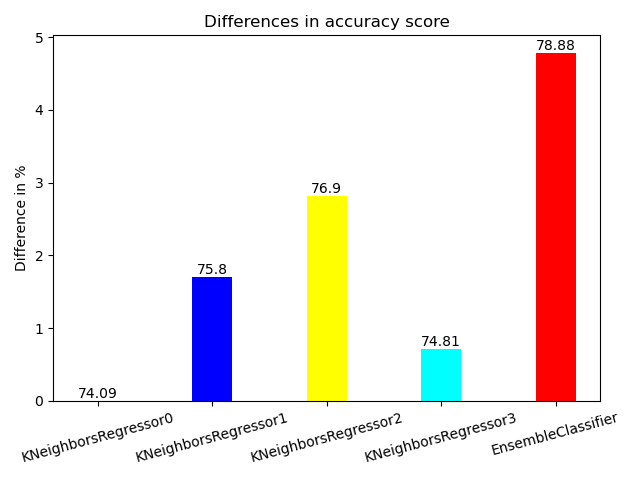
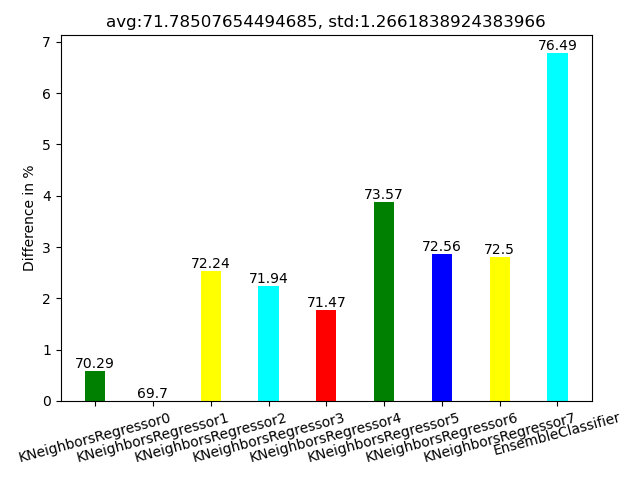
Lab2 completed

diff --git a/main.py b/main.py
@@ -30,10 +30,14 @@ average = [Ensemble.ARITHMETIC]
 #                [Model.K_NEIGHBORS, Model.K_NEIGHBORS, Model.K_NEIGHBORS, Model.K_NEIGHBORS],
 #                ]
 
-models_list = [[Model.DECISION_TREE, Model.DECISION_TREE, Model.DECISION_TREE, Model.DECISION_TREE],
-                [Model.BAYESIAN_RIDGE, Model.BAYESIAN_RIDGE, Model.BAYESIAN_RIDGE, Model.BAYESIAN_RIDGE],
-                [Model.SVR, Model.SVR, Model.SVR, Model.SVR],
-                [Model.K_NEIGHBORS, Model.K_NEIGHBORS, Model.K_NEIGHBORS, Model.K_NEIGHBORS],
+models_list = [[Model.DECISION_TREE, Model.DECISION_TREE, Model.DECISION_TREE, Model.DECISION_TREE, Model.DECISION_TREE, Model.DECISION_TREE,
+                Model.DECISION_TREE, Model.DECISION_TREE],
+                [Model.BAYESIAN_RIDGE, Model.BAYESIAN_RIDGE, Model.BAYESIAN_RIDGE, Model.BAYESIAN_RIDGE, Model.BAYESIAN_RIDGE, Model.BAYESIAN_RIDGE,
+                 Model.BAYESIAN_RIDGE,Model.BAYESIAN_RIDGE],
+                [Model.SVR, Model.SVR, Model.SVR, Model.SVR, Model.SVR, Model.SVR,
+                 Model.SVR,Model.SVR],
+                [Model.K_NEIGHBORS, Model.K_NEIGHBORS, Model.K_NEIGHBORS, Model.K_NEIGHBORS, Model.K_NEIGHBORS, Model.K_NEIGHBORS,
+                 Model.K_NEIGHBORS,Model.K_NEIGHBORS],
                 ]
 
 labels_group = [
@@ -51,7 +55,7 @@ split_dataset = [
     #SplitDataset.AGENT,
     ]
 
-number_of_agents = 4
+number_of_agents = 8
 
 
 def divide_into_train_test(df):
@@ -93,9 +97,9 @@ if __name__ == '__main__':
     master_agent.define_addr_conn(agents)
     for avg in average:
         for models, split in zip(models_list, split_dataset):
-            number_of_agents = len(models)
+            #number_of_agents = len(models)
             if split == SplitDataset.BAGGING:
-                divisions = [0, 0.25, 0.50, 0.75, 1.0]
+                divisions = [0, 0.125, 0.25, 0.375, 0.5, 0.625, 0.75, 0.875, 1.0]
                 n_samples = len(x_train)
                 x_train_list = [x_train[floor(divisions[i] * n_samples):floor(divisions[i + 1] * n_samples)] for i in
                                 range(number_of_agents)]  # divide x_train for 4 equal parts

diff --git a/DataVisualizer.py b/DataVisualizer.py
@@ -3,6 +3,7 @@ import matplotlib.pyplot as plt
 import seaborn as sns
 from math import floor
 import csv
+import statistics
 
 def print_corelation_heatmap(df):
     df.corr()['price'].sort_values(ascending=False)
@@ -23,19 +24,23 @@ def print_metrics(metrics, id, split):
     width = 0.35
     vals = np.array(list(metrics.values()))*100
     minimum = min(vals)
-
-    with open(f'results\exp1_one_type_algorithm\lab1_{id}.csv', 'w', newline='\n') as f:  # Just use 'w' mode in 3.x
+    with open(f'results\exp2_increasing\lab1_{id}.csv', 'w', newline='\n') as f:  # Just use 'w' mode in 3.x
         w = csv.writer(f, delimiter=',')
         for item in metrics:
             w.writerow([item, metrics[item]])
-
+    s = 0;
+    for i in range(len(metrics.values()) - 1):
+        s += vals[i]
+    standard_dev = statistics.stdev(vals[:len(vals)-1])
+    print(f'{list(metrics.keys())[0]} - Avg r2 score: {s/(len(vals)-1)}')
+    print(f'With std:{standard_dev}')
     plt.figure()
     plt.bar(ind, vals-minimum, width, color=['green', 'blue', 'yellow', 'cyan', 'red'])
     for i, v in zip(ind, vals-minimum):
         plt.text(i, v, round(vals[i], 2), horizontalalignment='center', verticalalignment='bottom')
 
     plt.ylabel('Difference in %')
-    plt.title('Differences in accuracy score')
+    plt.title(f'avg:{s/(len(vals)-1)}, std:{standard_dev}')
     plt.xticks(ind, (metrics.keys()), rotation=15)
     plt.tight_layout()
     plt.savefig(f'figures/metric_{split.name}_{id}.png')

diff --git a/MasterClassifier.py b/MasterClassifier.py
@@ -31,8 +31,8 @@ class MasterClassifier(Agent):
         final_prediction = list()
         if average == Ensemble.ARITHMETIC:
             preds = list(self.y_predicted.values())
-            for p1, p2, p3, p4 in zip(preds[0], preds[1], preds[2], preds[3]):
-                final_prediction.append(round((p1 + p2 + p3 + p4) / 4))
+            for p1, p2, p3, p4, p5, p6, p7, p8 in zip(preds[0], preds[1], preds[2], preds[3], preds[4], preds[5], preds[6], preds[7]):
+                final_prediction.append(round((p1 + p2 + p3 + p4 + p5 + p6 + p7 + p8) / 8))
         elif average == Ensemble.WEIGHTED:
             sorted_agent = self.map_weight()
             preds = [self.y_predicted[agent] for agent in sorted_agent ]
